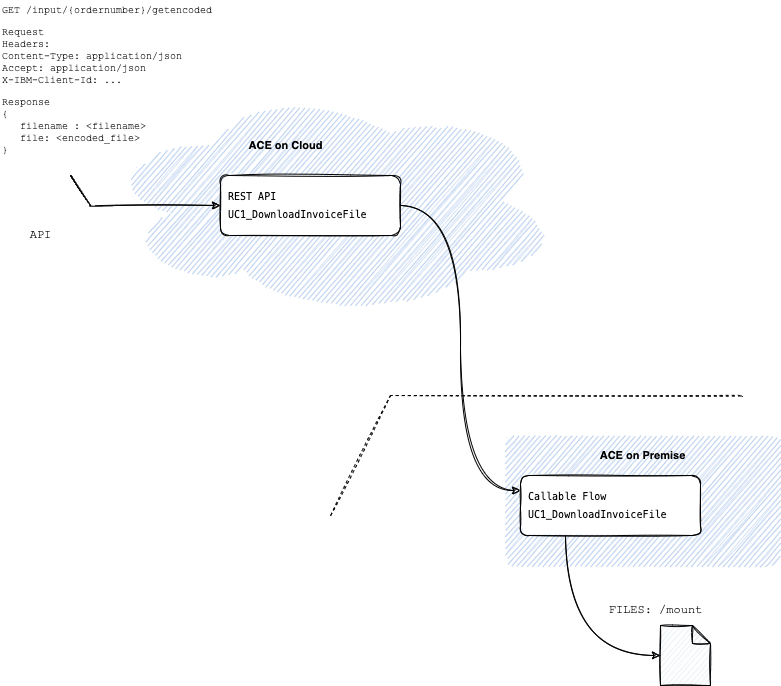
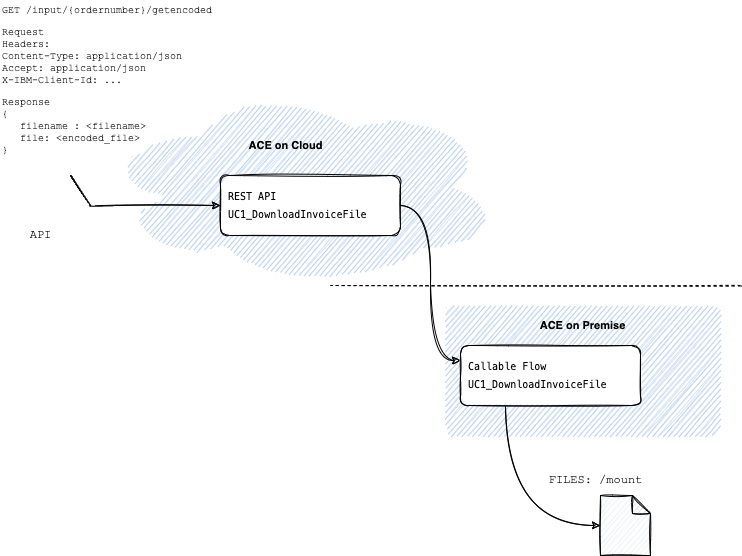
update README

diff --git a/README.md b/README.md
@@ -1,8 +1,14 @@
 # Expose File on Hybrid architecture with App Connect Enterprise. 
 
-In this blog i want to share with you an use case we implemented for a customer.
+In this blog, i want to share with you an use case we implemented for a customer.
 
-The goal was to provide an API exposed by ACE on Cloud to download a file (In this case a invoice PDF file) provided by ACE on Premise
+
+
+The goal was to provide an API exposed by ACE on Cloud to download a file (In this case a PDF file) provided by ACE on Premise.
+
+This API will be used by a consumer app (Magento for exemple) to retrieve the invoice document.
+
+So we give a order number in the request and the corresponding invoice PDF file is returned.
 
 ![arch-logique](images/file-api-arch-logique.png)
 
@@ -13,15 +19,19 @@ The sequence is the following :
 
 The API is provided by ACE on Cloud "API Flow" and retrieve file from On-premise using Callable-flow. 
 
-### No-Functional Requirement
+## No-Functional Requirement
 - The API will be made available with App Connect on IBM Cloud (Saas offering)
 - Files are available on-premise and will be served through an existing App Connect Enterprise instance (Native install on Windows Server)
 - Communication between the 2 instances (Cloud and on-premise) will be done with Callable flows
 
-> The advantage of Callableflow is to a have secure connection between SaaS and On-Premise with mTLS communcation.
+> The advantage of Callableflow is to have a secure connection between SaaS and On-Premise with mTLS communcation.
+
+## Logical Architecture
+
+![arch-logique-current-ibm-pattern](images/arch-logique-current-ibm-pattern.png)
 
 
-### Flows specifications
+## Flows specifications
 
 ![](images/download-file-api.png)
 
@@ -33,7 +43,7 @@ The API is provided by ACE on Cloud "API Flow" and retrieve file from On-premise
 	![](./images/UC1_DownloadInvoiceFile.jpg)
 	
 	
-- Flow 2: [UC1_CallableFileRead](./toolkit/v11/src/UC1_CallableFileRead)
+- Flow 2: [UC1_CallableFileRead](./toolkit/src/CallableFileRead.zip)
 
 	- It is the flow to deploy on the  *ACE on premise*
     - This flow search and return file for the specified order number.
@@ -43,9 +53,8 @@ The API is provided by ACE on Cloud "API Flow" and retrieve file from On-premise
 
 
 
-## Test on your environment
+## Prepare your environment
 
-To test this use case you need :
 
 1. **Donwload ACE Toolkit** and Install Toolkit
     - [Download IBM App Connect Enterprise for Developers and get started with a hands-on experience](https://www.ibm.com/docs/en/app-connect/12.0?topic=enterprise-download-ace-developer-edition-get-started)
@@ -58,23 +67,23 @@ To test this use case you need :
     - Sign in to IBM App Connect on IBM Cloud.
     - On the Dashboard, click the Callable flows icon Callable flows icon
     - Click Connect callable flows.
+
     *Figure 2. App Connect Dashboard, showing the Callable flows features*
-    
-    
     ![App Connect Dashboard](images/pf-ace-image02-1.png)
 
     - This opens the Synchronize your on-premises agent dialog.
+
     *Figure 3. The Synchronize your on-premises agent dialog*
     ![](images/pf-ace-image03.png)
 
-    - Click Download the configuration; this opens a dialog to save the agentx.json file.
+    - Click **Download the configuration**; this opens a dialog to **save the agentx.json** file.
 
-    - Leave the Synchronize your on-premises agent dialog open (note the dialog contains instructions for installing the agent into the work directory of the integration server in App Connect Enterprise).
-    - After saving the agentx.json file, copy the file to the work directory of the integration server in App Connect Enterprise Tookit: workdirectory/TEST_SERVER/config/iibswitch/agentx
+    - Leave the Synchronize your on-premises agent dialog open (note the dialog contains instructions for installing the agent into the work directory of the integration server in App Connect Enterprise)
+    - After saving the agentx.json file, **copy the file to the work directory of the integration server in App Connect Enterprise Tookit**: (For example) `workdirectory/TEST_SERVER/config/iibswitch/agentx`
 
-    - In your "on-premises" ACE toolkit, if the integration server is not running, start it; for example, in the toolkit right-click the server and then click Start
+    - **In your "on-premises" ACE toolkit, if the integration server is not running, start it**; for example, in the toolkit right-click the server and then click Start
 
-    - Check the console log (To view in the toolkit, you might need to Refresh the server entry under Independent Resources.) You should see messages that indicate ...The integration server component 'agentx' has been started; for example:
+    - **Check the console log** (To view in the toolkit, you might need to Refresh the server entry under Independent Resources.) You should see messages that indicate ...The integration server component 'agentx' has been started; for example:
     ```
     component starting: "agentx"
     Starting agentx with config folder: 'C:\Users\IANLarner\IBM\ACET11\workspace\myServer\config\iibswitch\agentx'
@@ -82,7 +91,7 @@ To test this use case you need :
     2020-06-29 13:31:51.088324: The integration server component 'agentx' has been started. 
     component started: "agentx"
     ```
-    - Switch back to the App Connect Designer window and then test the agent connection:
+    - **Switch back to the App Connect Designer** window and then test the agent connection:
         - Click **Test your agent**
 
             You should see at least 1 agent found. Secure communications for callable flows has been established between IBM App Connect on IBM Cloud and the integration server in your local IBM App Connect Enterprise toolkit.
@@ -90,14 +99,15 @@ To test this use case you need :
         - You can now close the Synchronize your on-premises agent dialog.
 
     
-    
     You have established secure connectivity between flows running in App Connect on IBM Cloud and in the integration server in your on-premises App Connect Enterprise.
 
-5. **Import the enterprise integration project into the toolkit** in the Toolkit
-    1. Download the project interchange file by clicking the link above and saving the file to your local machine.
+## Import and deploy flow components
+
+1. **Import the enterprise integration project into the toolkit** in the Toolkit
+    - Download the project interchange file by clicking the link above and saving the file to your local machine.
       Download file : [CallableFileRead.zip](https://github.com/fdut/file-download-callableflow/raw/main/toolkit/src/CallableFileRead.zip)
-    2. Open the toolkit.
-    3. Import the project into the toolkit. For example, **click File > Import, select IBM Integration > Project Interchange, select the downloaded file, then click Finish**.
+    - Open the toolkit.
+    - Import the project into the toolkit. For example, **click File > Import, select IBM Integration > Project Interchange, select the downloaded file, then click Finish**.
 6. Update File directory.
     - In toolkit. Extend Application **UC1_CallableFileRead** and open flow **ReturnFileAsMultiPart.msgflow**
     - Click on node **File Read** 
@@ -116,24 +126,27 @@ To test this use case you need :
 
 Otherwise, just return to the Dashboard, You can start the flow from there, as outlined in the Test the flow step.
 
-9. Test Flow
-    - In the API Flow click on **Manage**
+## Test the flow
+
+- Go to your App Connect on Cloud
+- In the API Flow click on **Manage**
     ![manage](images/manage.jpg)
-    - Go bottom and in the *Sharing outside of Cloud Foundry organization* click on button *Create API key and documentation link*
+- Go bottom and in the *Sharing outside of Cloud Foundry organization* click on button *Create API key and documentation link*
     ![manage](images/shareoutside.jpg)
-    - Click on button *Create API key and documentation createapikey.jpg
+- Click on button *Create API key and documentation createapikey.jpg
     ![manage](images/createapikey.jpg)
-    - Copy the API document link
+
+- Copy the API document link
     ![doclink](images/doclink.jpg)
-    - Open it in your browser on test your API with your API Key.
-    - Click 
-    - Click **try it**
-    - Enter API Key
-    - Enter a order number. For example 2999 because my PDF file is IN_00**2999**_22007894_93135.pdf
+- Open it in your browser on test your API with your API Key.
+- Click on Get operation.
+- Click **try it**
+- Enter API Key
+- Enter a order number. For example 2999 because my PDF file is IN_00**2999**_22007894_93135.pdf
 
     ![tryit](images/tryit.jpg)
 
-    - If all is OK. API Get return 200 with encoded file in body
+- If all is OK. API Get return 200 with encoded file in body
 
         ``` 
         { 
